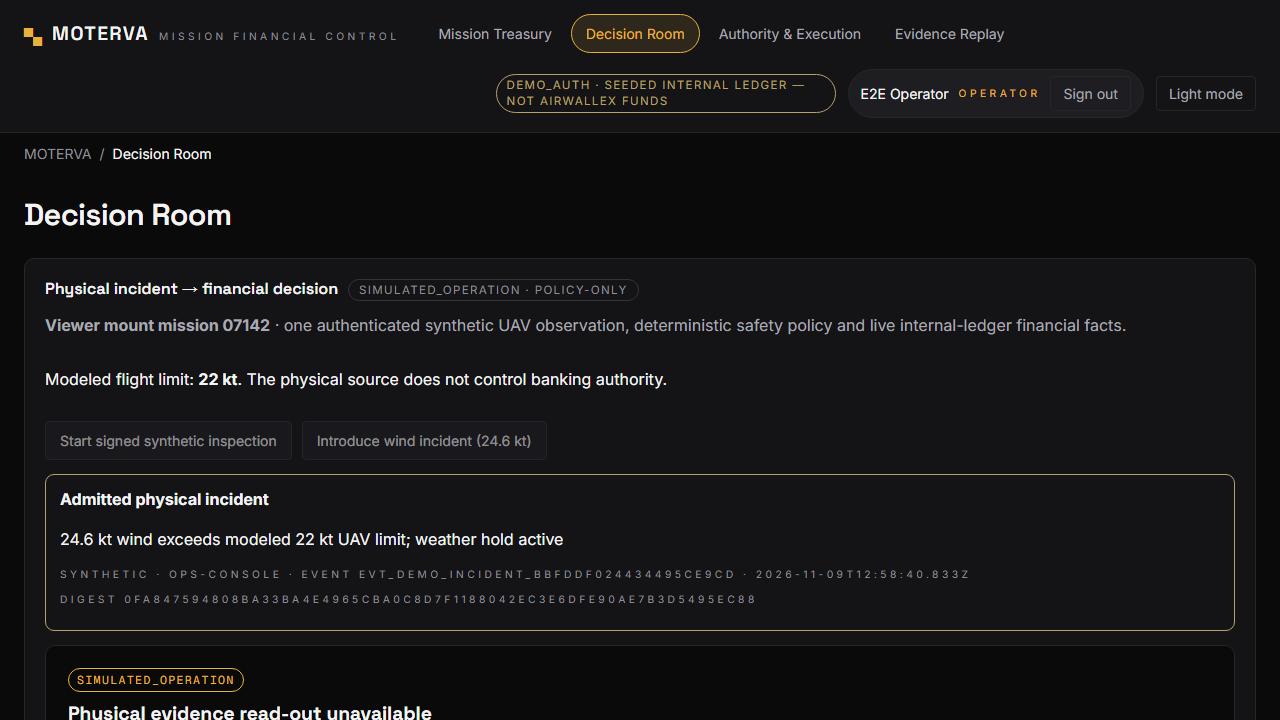
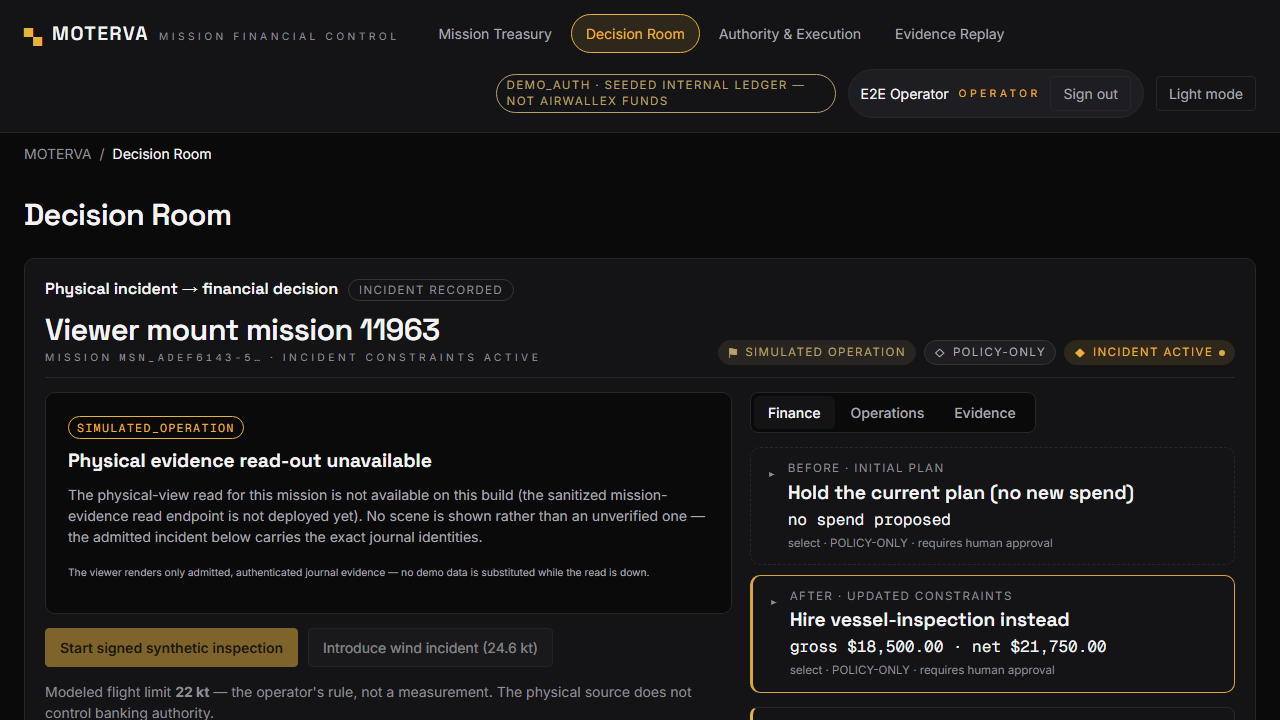
fix(mtv-20): composition-aware test updates; full incident event id preserved
physical-decision.spec now expands the After candidate card before asserting the blocked verdict and switches to the Evidence lens for the provenance line (same intent, new composition). The admitted incident shows the FULL journal event id (wrapping, not truncation) so judges can trace the exact identity through Evidence Replay. 39/39 locally.

diff --git a/e2e/physical-decision.spec.ts b/e2e/physical-decision.spec.ts
@@ -39,8 +39,14 @@ test('one synthetic physical incident changes a real ledger-bound financial deci
   }
   await expect(page.getByTestId('physical-incident')).toContainText('24.6 kt');
   await expect(page.getByTestId('physical-incident')).toContainText('SYNTHETIC');
+  // MTV-20 composition: alternatives/reasons live in the expandable After
+  // card — expand it to expose the blocked-alternative verdict.
+  const afterCard = page.getByRole('button', { name: /After · updated constraints/ });
+  await afterCard.click();
   await expect(page.getByTestId('decision-room')).toContainText('ASSET_SAFETY_BLOCKED');
   await expect(page.getByTestId('decision-room')).toContainText('Hire vessel-inspection');
+  // Provenance/disclaimer lives on the Evidence lens in the new composition.
+  await page.getByTestId('halotab-evidence').click();
   await expect(page.getByTestId('decision-provenance')).toContainText('No money sent');
 
   const mission = await page.evaluate(async () => {

diff --git a/apps/web/src/screens/DecisionRoom.tsx b/apps/web/src/screens/DecisionRoom.tsx
@@ -515,10 +515,8 @@ export function DecisionRoom({
               <p className="mv-droom__incidentreading">{journey.incident.reading}</p>
               <p className="mv-hud">
                 {journey.incident.provenance} · {journey.incident.sourceId} · event{' '}
-                <span className="mv-num" title={journey.incident.eventId}>
-                  {journey.incident.eventId.slice(0, 18)}…
-                </span>{' '}
-                · {journey.incident.observedAt}
+                <span className="mv-num mv-break">{journey.incident.eventId}</span> ·{' '}
+                {journey.incident.observedAt}
               </p>
               <p className="mv-hud">
                 digest{' '}
